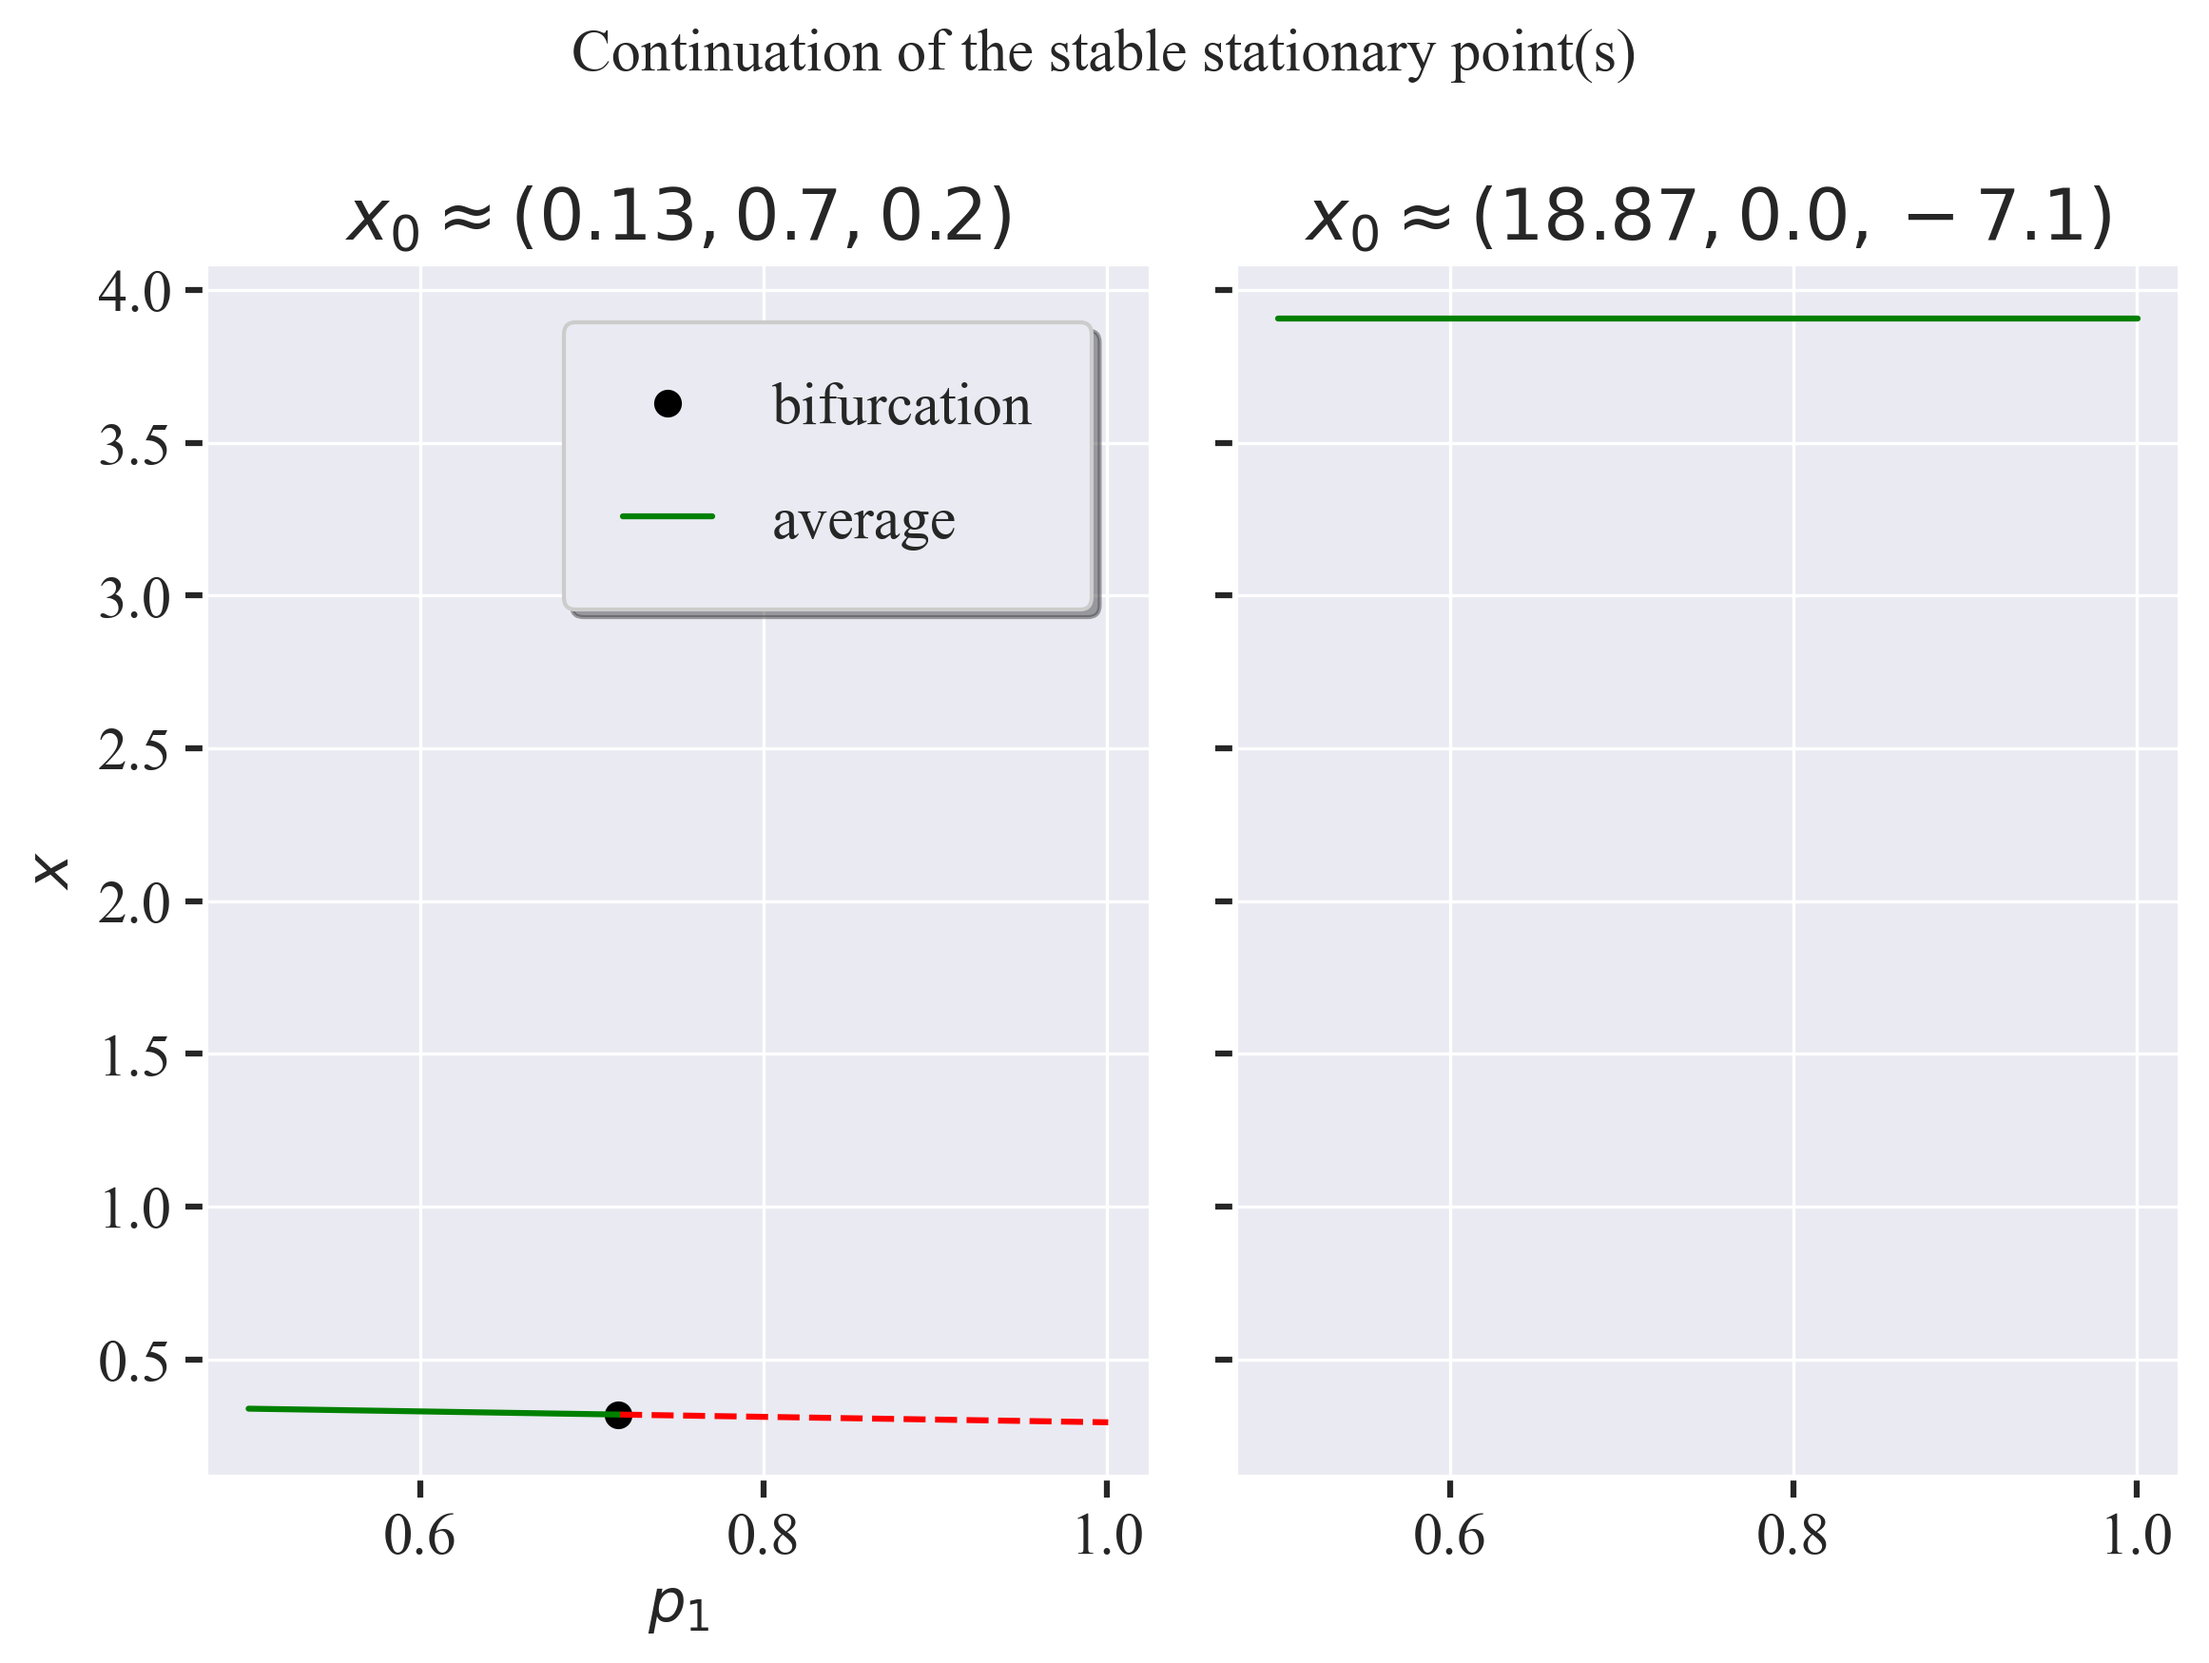
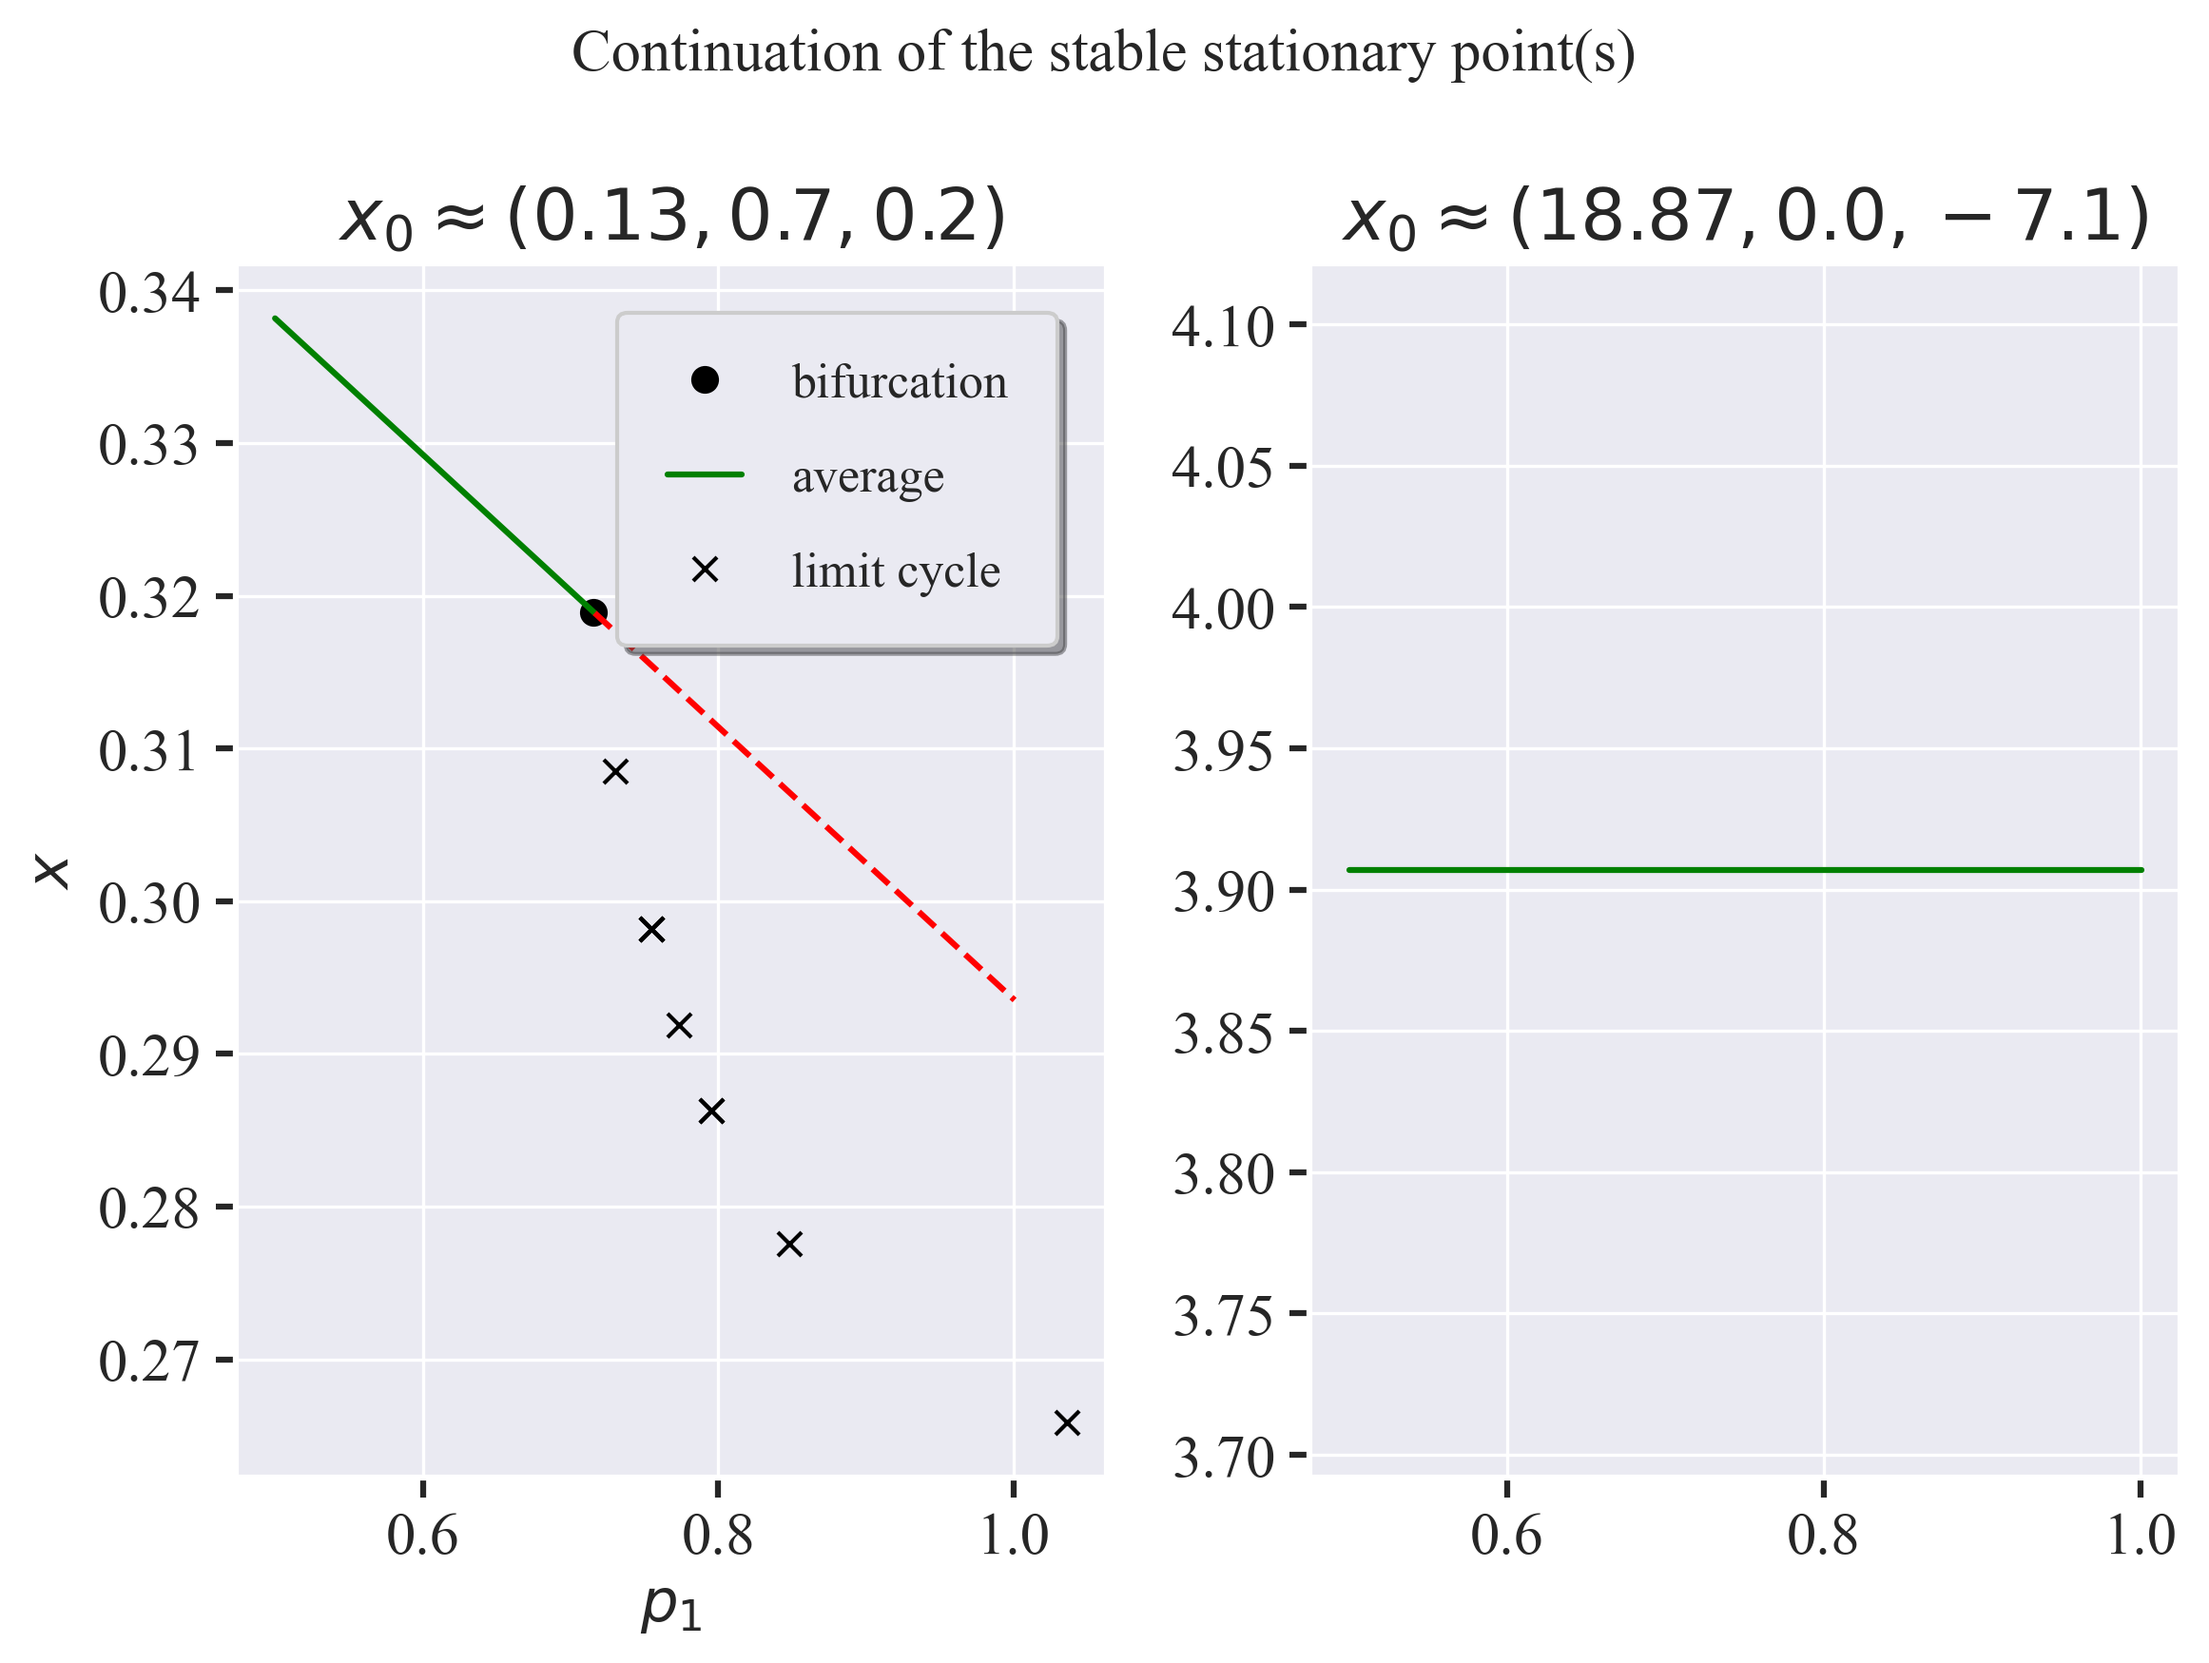
added limit cycle to continuation

diff --git a/code/mcm_model_equations.py b/code/mcm_model_equations.py
@@ -93,7 +93,7 @@ maxContinuations = 1000  # maximum number of continuations
 
 ############### Continuation (loop) ##########################
 print("\nBuilding bifurcation diagram (continuation loop)...")
-fig, axs = plt.subplots(nrows=1, ncols=2, figsize=(8, 6), sharex=True, sharey=True)
+fig, axs = plt.subplots(nrows=1, ncols=2, figsize=(8, 6))  # sharex=True, sharey=True)
 
 bifurcations = []
 for i, stable_point in enumerate(stable_points):
@@ -135,11 +135,6 @@ for i, stable_point in enumerate(stable_points):
     ax.plot(p1s[unstable], averages[unstable], "r--")
     # ax.plot(p1s[unstable], minima[unstable], "b--")
 
-    if i == 0:
-        ax.set_ylabel("$x$")
-        ax.set_xlabel("$p_1$")
-        ax.legend()
-
     ax.set_title(
         rf"$x_0  \approx ({stable_point[0]:.2f}, {stable_point[1]:.1f}, {stable_point[2]:.1f})$"
     )
@@ -158,6 +153,23 @@ for bif in bifurcations:
     out = dict(solution=solution, parameter=parameter)
     with open(filepath, "w") as f:
         json.dump(out, f, indent=4)
+
+
+############### retrieve limit cycles and add to continuation plot ##################
+# load limit cycles from file
+filename = "mcm_limit_cycles.json"
+filepath = data_dir / filename
+with open(filepath, "r") as f:
+    data = json.load(f)
+    solutions = data["points"]
+    parameters = data["parameter"]
+    periods = data["periods"]
+    cycles = data["cycles"]
+
+axs[0].plot(parameters, np.mean(solutions, 1), "kx", label="limit cycle")
+axs[0].set_ylabel("$x$")
+axs[0].set_xlabel("$p_1$")
+axs[0].legend(fontsize="small",loc="upper right")
 
 
 fig.suptitle("Continuation of the stable stationary point(s)")
